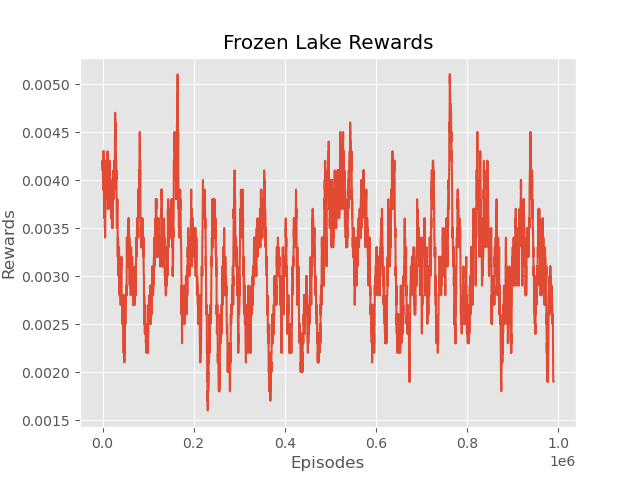
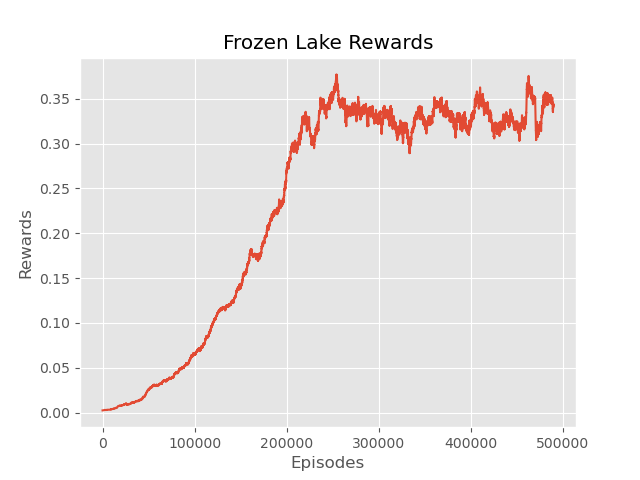
Working Q_table visualization

diff --git a/src/Q_learning.py b/src/Q_learning.py
@@ -8,20 +8,19 @@ class Q_learning(object):
         #hyperparameters
         self.alpha: float = 0.1
         self.gamma: float = 0.9
-        self.epsilon: float = 0.3
-        self.theta: float = 10e-10
+        self.epsilon: float = 1
+        self.decay: float = 0.99999
+        self.epsilon_min: float = 0.1
+
+    def decay_epsilon(self) -> None:
+        if self.epsilon > self.epsilon_min:
+            self.epsilon = self.epsilon * self.decay
 
     def init_q_table(self, env) -> None:
         self.Q_table = np.zeros((env.get_observation_space().n, env.get_action_space().n))
 
     def update_q_table(self, state:int, action:int, reward:float, next_state:int) -> None:
-        update = self.Q_table[state, action] + self.alpha * (reward + self.gamma * np.max(self.Q_table[next_state]) - self.Q_table[state, action])
         self.Q_table[state, action] = self.Q_table[state, action] + self.alpha * (reward + self.gamma * np.max(self.Q_table[next_state]) - self.Q_table[state, action])
-
-        if np.abs(update - self.Q_table[state, action]) < self.theta:
-            return True
-        else:
-            return False
 
     def get_action(self, env, state:int) -> int:
         if np.random.random() < self.epsilon:

diff --git a/main.py b/main.py
@@ -3,7 +3,7 @@ from src.Q_learning import Q_learning
 
 
 def main() -> None:
-    num_episodes = 1_000_000
+    num_episodes = 500_000
 
     env = FrozenLakeEnv()
     env.init_environment()
@@ -14,19 +14,25 @@ def main() -> None:
 
     # TODO: it would make sense to add some convergence criteria
     for ep in range(num_episodes):
+        if ep % 1_000 == 0 and ep != 0:
+            pass
+            #print(f'Episode: {ep}, Epsilon: {agent.epsilon}, Q_table: {agent.Q_table}')
+        
         action = env.get_action_space().sample()
         _ = env.reset()
+
+        agent.decay_epsilon()
 
         state = 0
         while True:
             action = agent.get_action(env, state)
             S_prime, R, _, _, _ = env.step(action)
 
-            threshhold = agent.update_q_table(env.observation, action, R, S_prime)
+            agent.update_q_table(state, action, R, S_prime)
 
             state = S_prime
 
-            if env.terminated or threshhold:
+            if env.terminated:
                 break
     
     agent.save_q_table('data/Q_table.npy')
